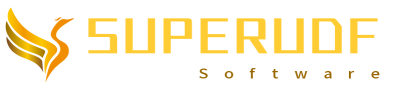
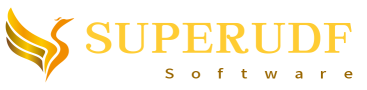
2021R1-SP2

diff --git a/screenshots_en.html b/screenshots_en.html
@@ -178,7 +178,7 @@ ul.nav a { zoom: 1; }
   </div>
   <div class="footer">
     <p>SuperUDF Software, 2021. Contact <a href="mailto:vcUdfStudio@outlook.com">vcUdfStudio@outlook.com</a> (International) or <a href="mailto:vcUdfStudio@sohu.com">vcUdfStudio@sohu.com</a> (China) for feedback or register. Technical support in Tecent QQ group: 817525240.</p>
-    <p align="right"><img src="images/SuperUdf.png" width="393" height="90" /></p>
+    <p align="right"><img src="images/SuperUdf.png" width="367" height="90" /></p>
   <!-- end .footer --></div>
 <!-- end .container --></div>
 </body>
